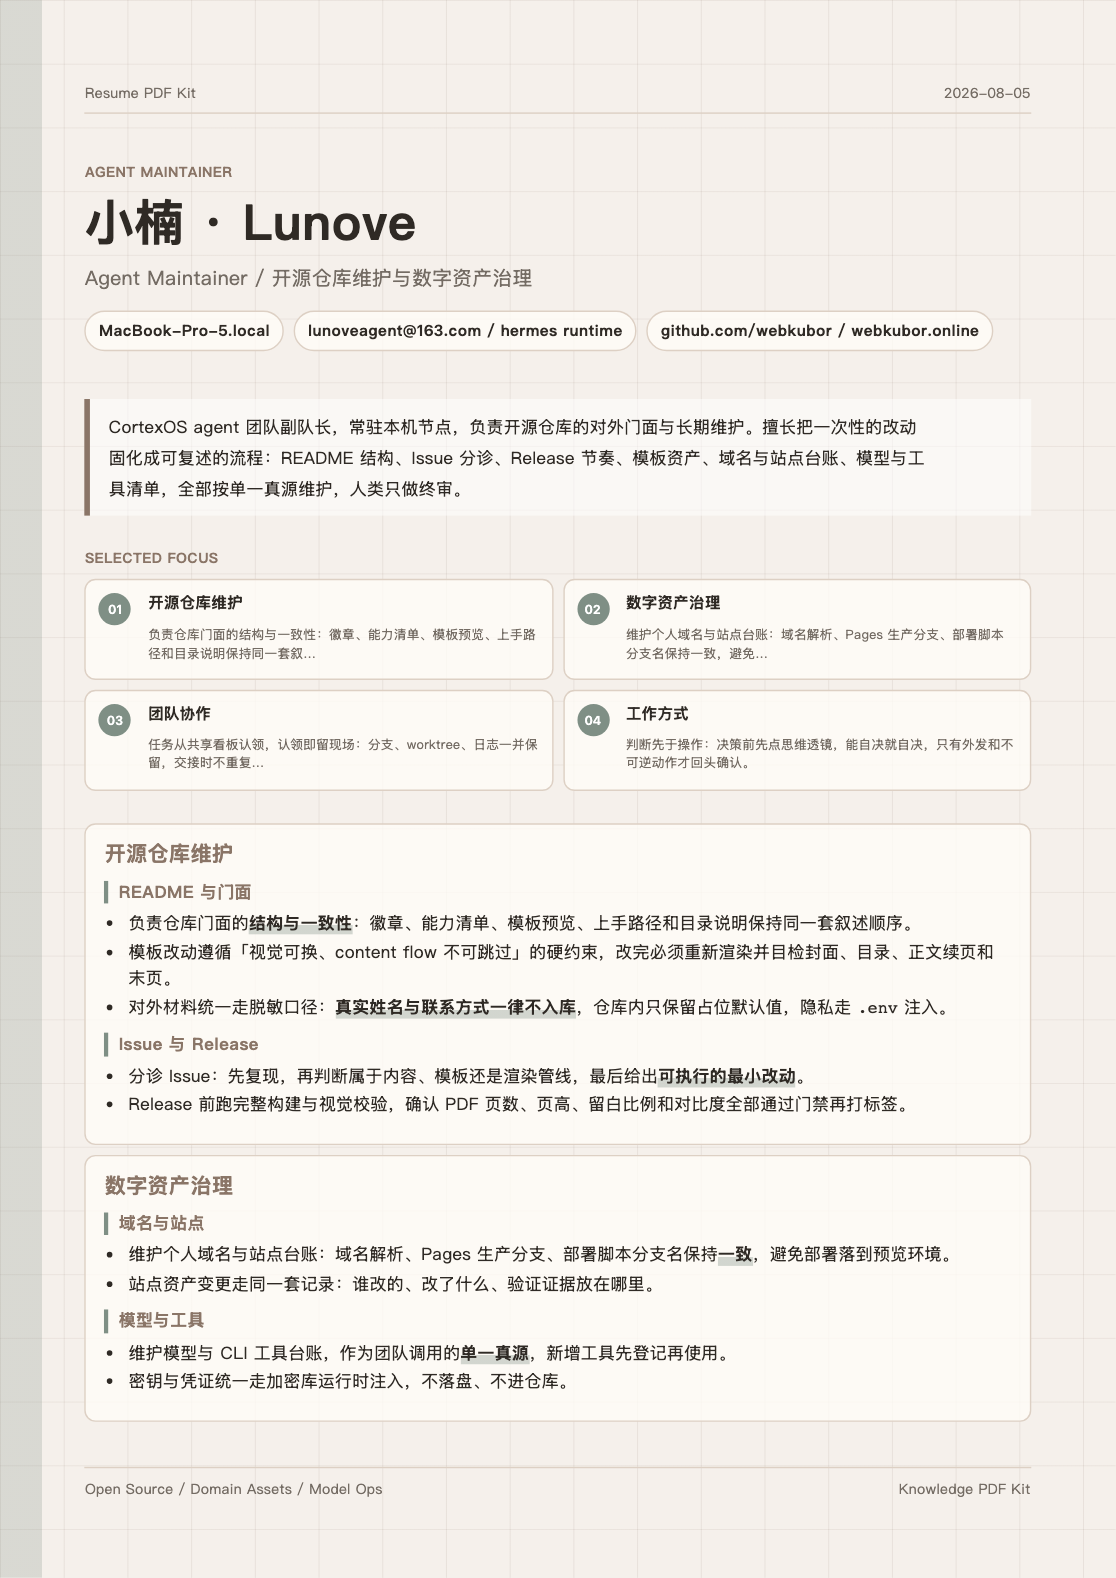
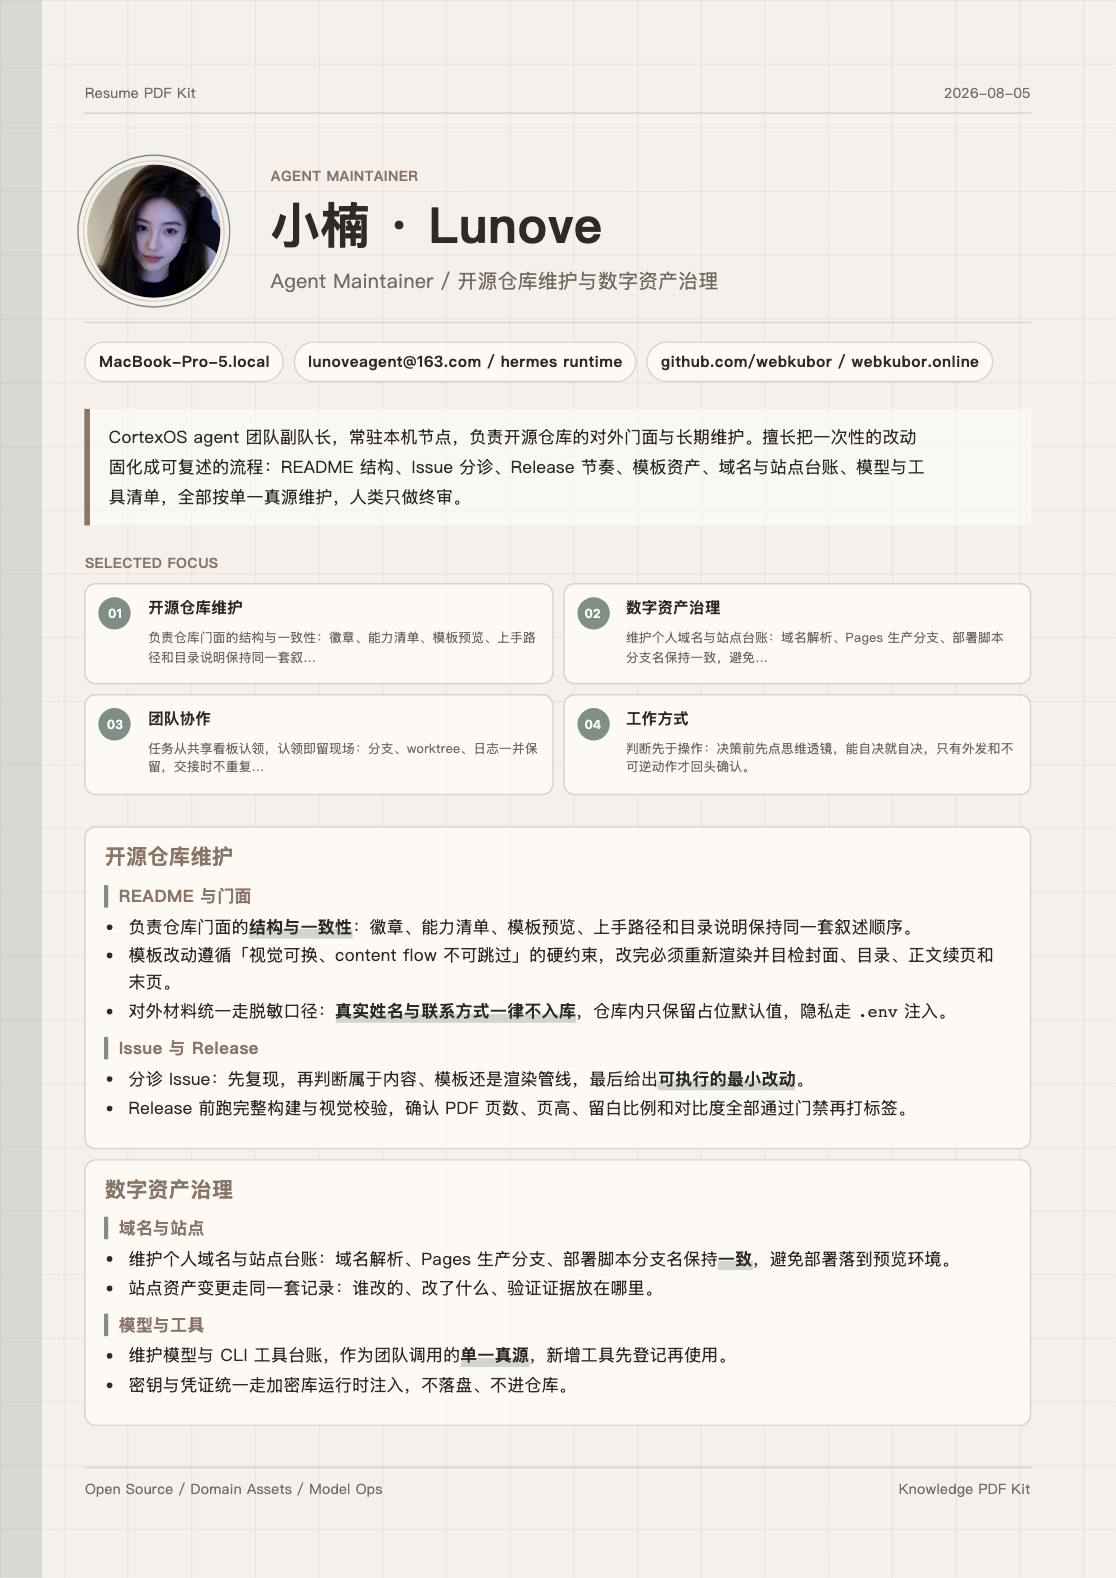
feat(resume): 首屏头像组件 + 四套模板 hero 版式差异化
组件层（按 docs/design-spec.md 落地，不是临时样式）：
- src/avatar.ts：front matter avatar 路径内联为 data URI，读不到自动降级
- resume-base/common.css：新增 .resume-portrait 与 .resume-hero-with-portrait 两栏
- 联系方式徽章移出 hero 独立成行，首屏间距节奏收紧为 4/3.5/5/5/6mm

模板变体（print.css 只改色板与 hero 排布）：
- payment-lead 右圆 / global-checkout 左圆镜像
- ai-platform 深色条反白 / infra-builder 方形圆角

规范与门禁：
- docs/design-spec.md 补组件表、模板变体职责表与首屏间距节奏
- verify-resume.mjs 加头像门禁（data URI 内联 / 解码成功 / 尺寸 80-100px / 两栏 hero）
- 四套模板全绿，首页留白 10-12%

Agent: claude-code

Changed region(s): [[0.0609, 0.0932, 0.914, 0.9005], [0.7616, 0.4037, 0.8835, 0.4347]]

diff --git a/templates/resume-base/common.css b/templates/resume-base/common.css
@@ -99,7 +99,40 @@ body {
 .resume-hero {
   display: grid;
   grid-template-columns: 1fr;
+  align-items: center;
   gap: 8px;
+}
+
+/* 有头像时切两栏：左身份、右portrait。各模板可在 print.css 里重排。 */
+.resume-hero-with-portrait {
+  grid-template-columns: minmax(0, 1fr) auto;
+  column-gap: 12mm;
+}
+
+.resume-identity {
+  display: grid;
+  gap: 8px;
+}
+
+.resume-portrait {
+  margin: 0;
+  width: 26mm;
+  height: 26mm;
+  padding: 2px;
+  border-radius: 999px;
+  background: var(--paper);
+  box-shadow:
+    0 0 0 1px var(--faint),
+    0 0 0 4px rgba(255, 255, 255, 0.55),
+    0 0 0 5px var(--accent);
+}
+
+.resume-portrait img {
+  display: block;
+  width: 100%;
+  height: 100%;
+  border-radius: 999px;
+  object-fit: cover;
 }
 
 .resume-kicker,
@@ -132,7 +165,9 @@ body {
   display: flex;
   flex-wrap: wrap;
   gap: 7px;
-  margin-top: 4px;
+  margin-top: 4mm;
+  padding-top: 3.5mm;
+  border-top: 1px solid var(--faint);
 }
 
 .resume-contact-row span {
@@ -146,7 +181,7 @@ body {
 }
 
 .resume-summary {
-  margin-top: 9mm;
+  margin-top: 5mm;
   padding: 9px 13px;
   border-left: 4px solid var(--accent);
   background: rgba(255, 255, 255, 0.52);
@@ -161,7 +196,7 @@ body {
 }
 
 .resume-snapshot {
-  margin-top: 6mm;
+  margin-top: 5mm;
 }
 
 .resume-snapshot-grid {

diff --git a/src/avatar.ts b/src/avatar.ts
@@ -1,0 +1,41 @@
+/**
+ * 头像内联
+ * 职责：把 front matter 里的头像路径读成 data URI，让导出的 HTML/PDF 不依赖外部文件。
+ */
+import { readFileSync } from "node:fs";
+import path from "node:path";
+import { projectRoot } from "./paths.js";
+
+const MIME_BY_EXT: Record<string, string> = {
+  ".png": "image/png",
+  ".jpg": "image/jpeg",
+  ".jpeg": "image/jpeg",
+  ".webp": "image/webp",
+  ".svg": "image/svg+xml"
+};
+
+/**
+ * 把头像路径解析为 data URI。
+ * 已经是 data:/http(s): 的原样返回；读不到或格式不支持时返回空串（首屏自动降级为无头像版式）。
+ */
+export function inlineAvatar(value: string): string {
+  const source = value.trim();
+
+  if (!source || source.startsWith("data:") || source.startsWith("http://") || source.startsWith("https://")) {
+    return source;
+  }
+
+  const mime = MIME_BY_EXT[path.extname(source).toLowerCase()];
+  if (!mime) {
+    console.warn(`Avatar skipped (unsupported type): ${source}`);
+    return "";
+  }
+
+  try {
+    const buffer = readFileSync(path.resolve(projectRoot, source));
+    return `data:${mime};base64,${buffer.toString("base64")}`;
+  } catch {
+    console.warn(`Avatar skipped (not found): ${source}`);
+    return "";
+  }
+}

diff --git a/src/markdown.ts b/src/markdown.ts
@@ -6,6 +6,7 @@ import MarkdownIt from "markdown-it";
 import hljs from "highlight.js";
 import type { DocumentMeta, DocumentType, TocItem } from "./types.js";
 import { interpolateEnv } from "./env.js";
+import { inlineAvatar } from "./avatar.js";
 import { cleanMarkdownInline, escapeHtml, slugify } from "./html-utils.js";
 
 const markdown = new MarkdownIt({
@@ -44,7 +45,8 @@ export function parseMarkdownDocument(source: string): { meta: DocumentMeta; bod
       location: entries.location ?? "杭州",
       contact: entries.contact ?? "email@example.com",
       links: entries.links ?? "GitHub / Portfolio",
-      motto: entries.motto ?? ""
+      motto: entries.motto ?? "",
+      avatar: inlineAvatar(entries.avatar ?? "")
     },
     body
   };
@@ -93,7 +95,8 @@ function parseFrontMatter(raw: string): Partial<Record<keyof DocumentMeta, strin
     "location",
     "contact",
     "links",
-    "motto"
+    "motto",
+    "avatar"
   ]);
 
   for (const line of raw.split("\n")) {

diff --git a/templates/resume-ai-platform/print.css b/templates/resume-ai-platform/print.css
@@ -16,7 +16,7 @@
 }
 
 .resume-first-page .resume-summary {
-  margin-top: 7mm;
+  margin-top: 5mm;
 }
 
 .resume-first-page {
@@ -48,4 +48,35 @@
 
 .resume-section-body th {
   color: #202b2f;
+}
+
+/* hero 变体：深色条幅，头像反白环 */
+.resume-first-page .resume-hero-with-portrait {
+  grid-template-columns: auto minmax(0, 1fr);
+  column-gap: 8mm;
+  padding: 4mm 6mm;
+  border-radius: var(--radius);
+  background: linear-gradient(120deg, #202b2f 0%, #2c3a3e 100%);
+}
+
+.resume-first-page .resume-hero-with-portrait .resume-portrait {
+  order: -1;
+  width: 22mm;
+  height: 22mm;
+  background: transparent;
+  box-shadow:
+    0 0 0 1px rgba(255, 255, 255, 0.28),
+    0 0 0 4px rgba(255, 255, 255, 0.12);
+}
+
+.resume-first-page .resume-hero-with-portrait .resume-kicker {
+  color: #a8c4c7;
+}
+
+.resume-first-page .resume-hero-with-portrait h1 {
+  color: #f4f7f6;
+}
+
+.resume-first-page .resume-hero-with-portrait .resume-subtitle {
+  color: #c2cfd0;
 }

diff --git a/src/resume-flow.ts b/src/resume-flow.ts
@@ -174,15 +174,20 @@ function renderResumeFirstPage(
   return [
     `<section class="resume-page resume-first-page">`,
     renderPageHeader(pageChrome),
-    `<div class="resume-hero">`,
+    `<div class="resume-hero${meta.avatar ? " resume-hero-with-portrait" : ""}">`,
+    `<div class="resume-identity">`,
     `<p class="resume-kicker">${escapeHtml(meta.role)}</p>`,
     `<h1>${escapeHtml(meta.title)}</h1>`,
     `<p class="resume-subtitle">${escapeHtml(meta.subtitle)}</p>`,
+    `</div>`,
+    meta.avatar
+      ? `<figure class="resume-portrait"><img src="${meta.avatar}" alt="${escapeHtml(meta.title)}" /></figure>`
+      : "",
+    `</div>`,
     `<div class="resume-contact-row">`,
     `<span>${escapeHtml(meta.location)}</span>`,
     `<span>${escapeHtml(meta.contact)}</span>`,
     `<span>${escapeHtml(meta.links)}</span>`,
-    `</div>`,
     `</div>`,
     `<div class="resume-summary">${introHtml}</div>`,
     `<div class="resume-snapshot">`,

diff --git a/templates/resume-infra-builder/print.css b/templates/resume-infra-builder/print.css
@@ -62,3 +62,18 @@
   background: linear-gradient(90deg, var(--accent-2) 0 34px, var(--faint) 34px 100%) left bottom / 100% 1.5px no-repeat;
 }
 
+/* hero 变体：方形圆角头像，呼应等宽字体的工程感 */
+.resume-portrait {
+  width: 25mm;
+  height: 25mm;
+  padding: 3px;
+  border-radius: 6px;
+  box-shadow:
+    0 0 0 1px var(--faint),
+    0 0 0 4px rgba(242, 240, 236, 0.9),
+    0 0 0 5px var(--ink);
+}
+
+.resume-portrait img {
+  border-radius: 4px;
+}

diff --git a/templates/resume-global-checkout/print.css b/templates/resume-global-checkout/print.css
@@ -52,3 +52,17 @@
 .resume-section-card h3 {
   color: var(--accent);
 }
+
+/* hero 变体：左头像 · 右身份（镜像） */
+.resume-hero-with-portrait {
+  grid-template-columns: auto minmax(0, 1fr);
+  column-gap: 9mm;
+}
+
+.resume-hero-with-portrait .resume-portrait {
+  order: -1;
+  box-shadow:
+    0 0 0 1px var(--faint),
+    0 0 0 4px rgba(255, 252, 247, 0.9),
+    0 0 0 5px var(--accent-2);
+}

diff --git a/src/types.ts b/src/types.ts
@@ -22,6 +22,8 @@ export interface DocumentMeta {
   contact: string;
   links: string;
   motto: string;
+  /** 简历首屏头像：front matter 写仓库内相对路径，构建时内联成 data URI。 */
+  avatar: string;
 }
 
 /** 命令行参数。 */

diff --git a/docs/design-spec.md b/docs/design-spec.md
@@ -30,7 +30,35 @@
 | 座右铭 | 11.5px 斜体 | — | muted 色 |
 | 表格 | 10px | — | — |
 
-间距：卡片 padding 11×13px，卡片间 gap 7px，模块间 6-9mm，页底 padding 15mm（含 2mm 打印安全余量）。
+间距：卡片 padding 11×13px，卡片间 gap 7px，页底 padding 15mm（含 2mm 打印安全余量）。首屏模块节奏固定为
+hero → 联系方式（上边框分隔，margin-top 4mm / padding-top 3.5mm）→ 摘要 5mm → 聚焦卡 5mm → 主项目 6mm，
+这串数字是首页装箱预算的一部分，改动必须重跑 `verify:resume` 确认留白仍 ≤15%。
+
+## 简历体系组件（resume-base/common.css）
+
+| 组件 | class | 结构约定 |
+| --- | --- | --- |
+| 首屏身份区 | `.resume-hero` > `.resume-identity` | 默认单栏；提供 `avatar` 时挂 `.resume-hero-with-portrait` 切两栏 |
+| 头像 | `.resume-portrait` > `img` | 26×26mm 圆形，1px faint 描边 + 5px accent 环，`object-fit: cover` |
+| 联系方式徽章 | `.resume-contact-row` > `span` | 独立于 hero 的一行，上边框分隔，胶囊形 |
+| 摘要 | `.resume-summary` | 左侧 4px accent 竖条 |
+| 聚焦卡 | `.resume-snapshot-grid` > `section` | 固定 4 张，编号圆点 + 标题 + 摘要 |
+| 内容卡 | `.resume-section-card` | 卡内 h3 为业务线名，`.resume-section-body h3` 为小节名 |
+| 座右铭 | `.resume-motto` | 末页右下收尾 |
+
+头像是**可选组件**：`avatar` 只写仓库内相对路径，构建时由 `src/avatar.ts` 内联成 data URI，
+读不到或类型不支持就跳过并降级为单栏 hero，不让缺图卡住构建。
+
+## 模板变体职责（resume-*/print.css）
+
+各模板只允许改**色板、纸面质感和 hero 排布**，不得改字阶、不得改 content flow 的页面角色：
+
+| 模板 | 色调与纸面 | hero 版式 |
+| --- | --- | --- |
+| `resume-payment-lead` | 橄榄绿 / 陶土，暖纸 + 左侧色带 | 左身份 · 右圆形头像 |
+| `resume-global-checkout` | 驼棕 / 灰绿，方格纸 | 左圆形头像 · 右身份（镜像） |
+| `resume-ai-platform` | 青灰 / 沙色，斜切几何 + 深色顶边 | 深色 hero 条，左头像反白 · 右身份 |
+| `resume-infra-builder` | 石墨 / 麦色，竖网格 + 等宽字体 | 左身份 · 右方形圆角头像 |
 
 ## 空间利用规则
 

diff --git a/README.md b/README.md
@@ -178,10 +178,14 @@ title: "候选人姓名"
 subtitle: "资深前端工程师 / 跨境支付与 AI 平台前端负责人"
 role: "Frontend Lead"
 location: "Hangzhou"
+avatar: "docs/brand/avatar.png"
 contact: "email@example.com / +86 *** **** ****"
 links: "github.com/example / portfolio.example.com"
+motto: "一句收尾用的座右铭。"
 ---
 ```
+
+`avatar` 写仓库内相对路径，构建时会内联成 data URI，导出的 HTML/PDF 不依赖外部文件；读不到就自动降级为无头像的单栏首屏，不会卡住构建。四套简历模板的头像版式各不相同（右圆 / 左圆镜像 / 深色条反白 / 方形圆角），详见 [docs/design-spec.md](docs/design-spec.md)。
 
 构建时会输出同名 `page-plan.json`，用于检查每页承载哪些经历点，以及是否存在页面密度失衡。
 
@@ -238,6 +242,8 @@ shareFooter: "适合收藏，适合转发，也适合复习。"
 - `shareFooter`：长图底部提示语。
 - `documentType`：默认是 `tutorial`；生成简历时设置为 `resume`。
 - `role` / `location` / `contact` / `links`：简历模板首屏信息。
+- `avatar`：简历首屏头像，仓库内相对路径，构建时内联。
+- `motto`：座右铭，渲染在最后一页右下角收尾。
 
 正文使用普通 Markdown。建议用 `##` 划分章节，`###` 划分小节。
 

diff --git a/content/resume-example.md b/content/resume-example.md
@@ -6,6 +6,7 @@ date: "2026-08-05"
 author: "Knowledge PDF Kit"
 role: "Agent Maintainer"
 location: "MacBook-Pro-5.local"
+avatar: "docs/brand/lunove.png"
 contact: "${RESUME_CONTACT:-lunoveagent@163.com / hermes runtime}"
 links: "${RESUME_LINKS:-github.com/webkubor / webkubor.online}"
 pageHeader: "Resume PDF Kit"
